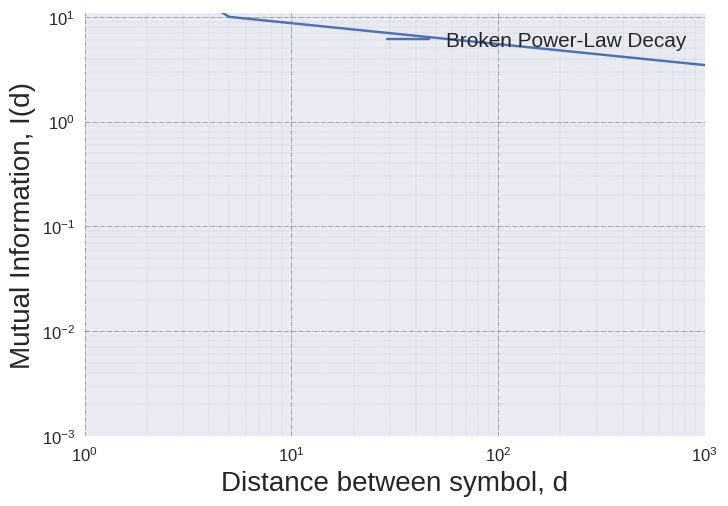
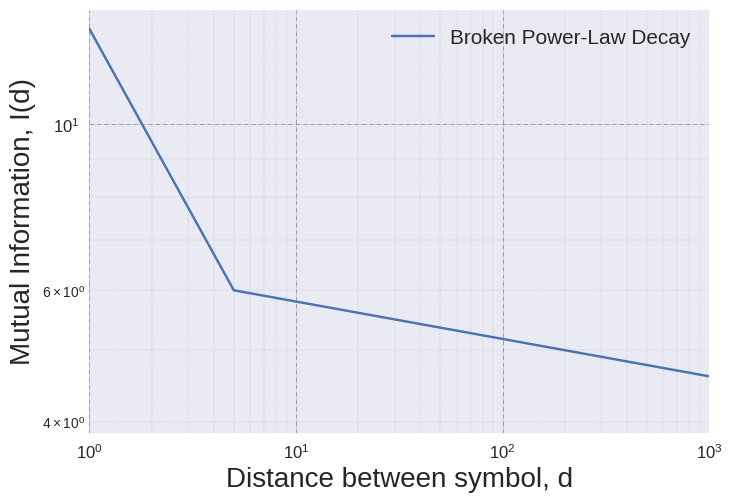
Up

diff --git a/paper_related/framework.py b/paper_related/framework.py
@@ -13,9 +13,9 @@ with plt.style.context(('seaborn')):
     ##########################################################################################################################
 
     break_point = 5
-    alpha_1 = 1.2
-    alpha_2 = 0.2
-    amplitude = 10
+    alpha_1 = 0.5
+    alpha_2 = 0.05
+    amplitude = 6
     f = models.BrokenPowerLaw1D(amplitude=amplitude, x_break=break_point, alpha_1=alpha_1, alpha_2=alpha_2)
     fit_sample = f(x)
     p1 = plt.loglog(x, fit_sample, label="Broken Power-Law Decay")
@@ -55,7 +55,7 @@ with plt.style.context(('seaborn')):
     plt.grid(which='major', linestyle='-.', linewidth='0.5', color='grey')
     plt.grid(which='minor', linestyle=':', linewidth='0.2', color='grey')
     ax.set_xlim(1.0, 1000.0)
-    ax.set_ylim(0.001, 11)
+    #ax.set_ylim(0.001, 11)
     ax.set_xlabel('Distance between symbol, d', fontsize=20)
     ax.set_ylabel('Mutual Information, I(d)', fontsize=20)
     plt.savefig('pl_broken', bbox_extra_artists=(lgd,), bbox_inches='tight')
